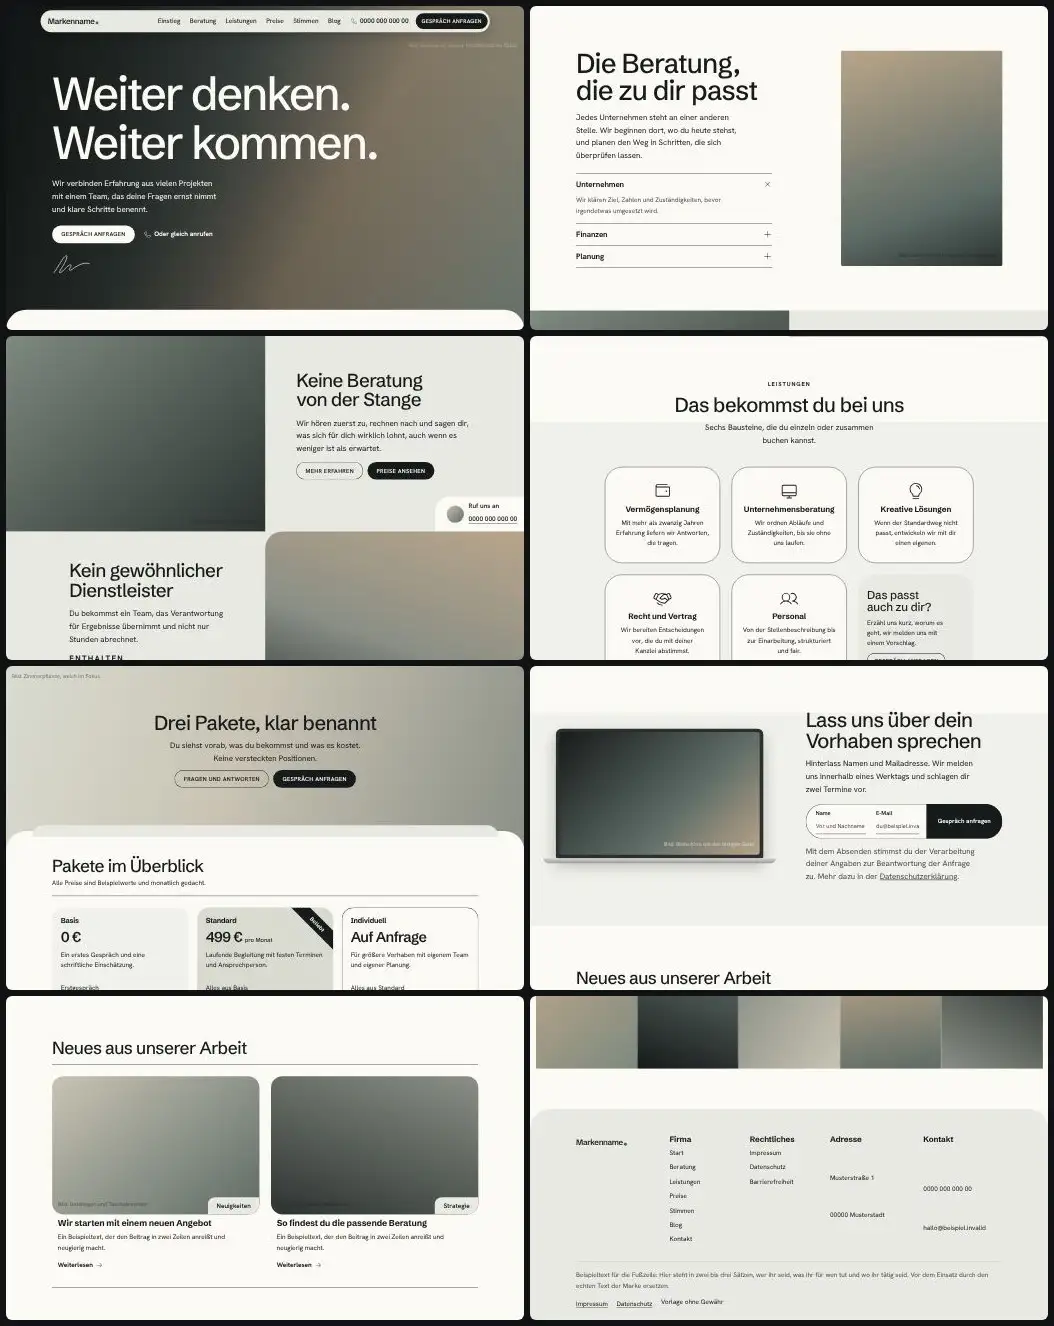
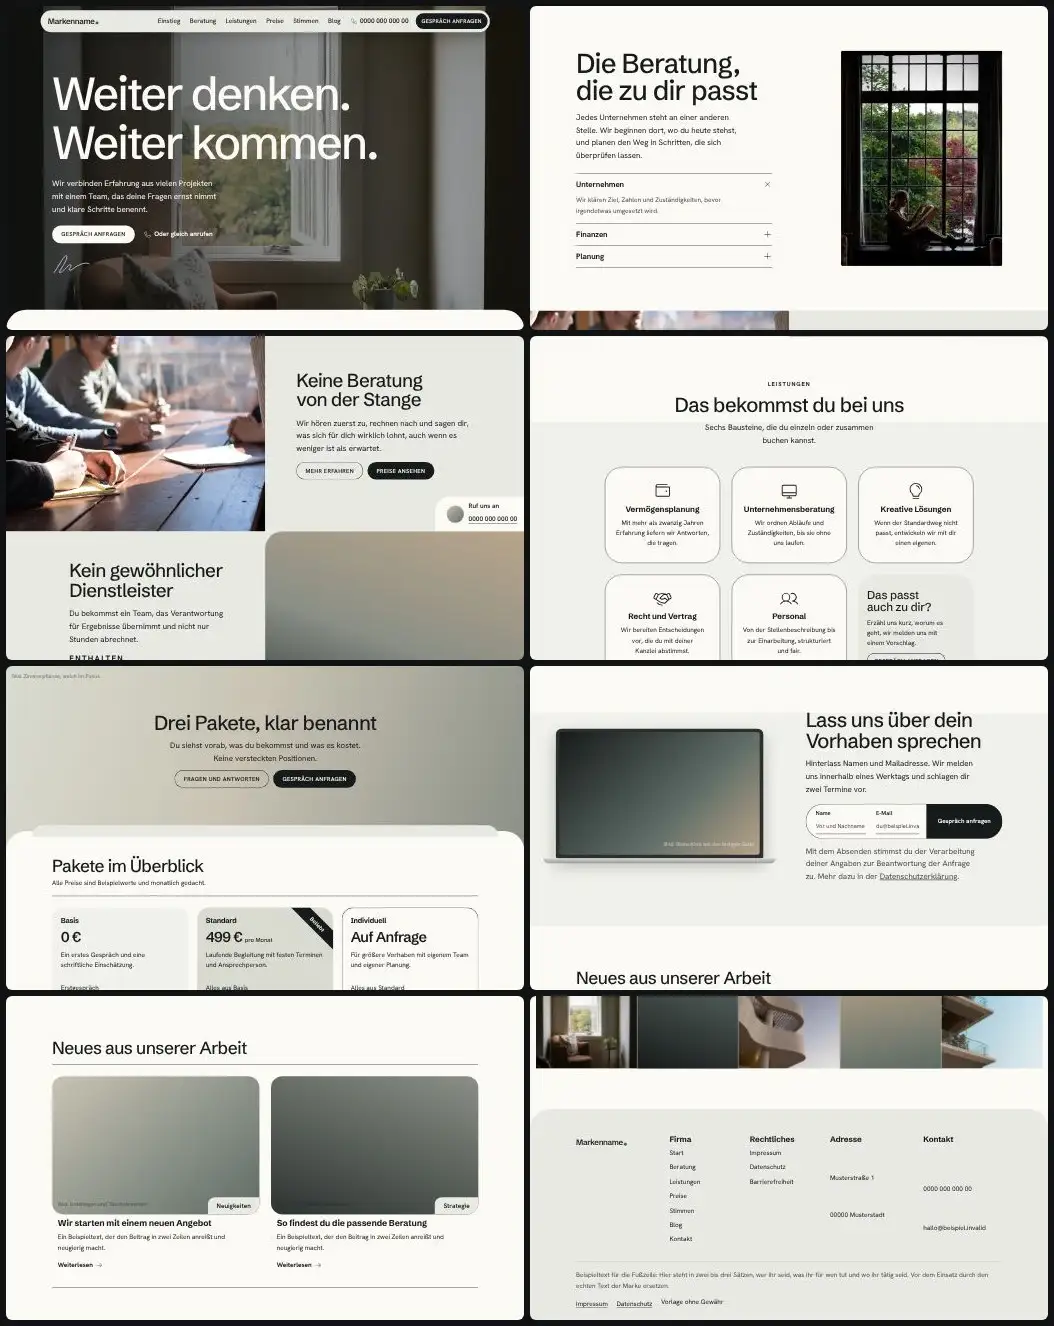
Bibliothek t51: Beispielfotos (Unsplash) eingebaut, Vorschaubilder neu erzeugt
Claude-Session: https://claude.ai/code/session_01DoGuL1bwF3ewggMgZ4Cpvd

diff --git a/skills/webdesign-conversion/assets/vorlagen/bibliothek/t51/index.html b/skills/webdesign-conversion/assets/vorlagen/bibliothek/t51/index.html
@@ -62,7 +62,7 @@
 <main id="inhalt">
   <!-- 1. Held: Vollbild, zwei Zeilen laufen aus einer Maske ein, Unterschrift darunter -->
   <section class="held" id="top" aria-labelledby="h-held" data-abdunkeln>
-    <div class="bild held__bild" data-platzhalter="Bild: Berater im Sessel, Hochformat im Raum" role="img" aria-label="Platzhalter für ein Foto einer beratenden Person in einem hellen Raum"></div>
+    <div class="bild held__bild"><img src="bilder/sessel-fenster-gartenblick.webp" width="1000" height="1500" alt="Sessel in einer Fensternische mit Blick in den Garten" loading="lazy" decoding="async"></div>
     <div class="held__schleier" aria-hidden="true"></div>
     <div class="held__dunkel" aria-hidden="true"></div>
     <div class="wrap held__innen">
@@ -103,13 +103,13 @@
           <details><summary>Planung<svg aria-hidden="true" focusable="false"><use href="#i-plus"/></svg></summary><p>Aus den Ergebnissen entsteht ein Fahrplan mit Terminen, Verantwortlichen und Zwischenzielen.</p></details>
         </div>
       </div>
-      <div class="bild beratung__bild" data-zeig="skala" data-platzhalter="Bild: Berater liest im Sessel, Hochformat" role="img" aria-label="Platzhalter für ein Hochformatfoto einer lesenden Person im Sessel"></div>
+      <div class="bild beratung__bild" data-zeig="skala"><img src="bilder/lesen-am-fenster.webp" width="1000" height="1500" alt="Person liest im Fenster vor grünem Garten" loading="lazy" decoding="async"></div>
     </div>
   </section>
 
   <!-- 4. Teiler eins: Bild links, Salbeifläche rechts mit Rufkarte -->
   <section class="teiler teiler--eins" aria-labelledby="h-teiler1">
-    <div class="bild teiler__bild" data-platzhalter="Bild: Team arbeitet am Tisch" role="img" aria-label="Platzhalter für ein Foto eines Teams am Besprechungstisch"></div>
+    <div class="bild teiler__bild"><img src="bilder/hande-am-holztisch.webp" width="1000" height="667" alt="Hände mit Notizen an einem langen Holztisch" loading="lazy" decoding="async"></div>
     <div class="teiler__text">
       <h2 id="h-teiler1" data-zeig>Keine Beratung von der Stange</h2>
       <p data-zeig>Wir hören zuerst zu, rechnen nach und sagen dir, was sich für dich wirklich lohnt, auch wenn es weniger ist als erwartet.</p>
@@ -166,8 +166,8 @@
       </div>
       <div class="dienste" data-staffel>
         <article class="dienst" data-zeig><div class="bild dienst__bild" data-platzhalter="Bild: Beraterin im Restaurant" role="img" aria-label="Platzhalter für ein Porträtfoto einer Beraterin"></div><div class="dienst__text"><h3>Vermögen und Vorsorge</h3><p>Ein Beispieltext, der kurz sagt, was dich in diesem Feld erwartet.</p><a class="zeigelink" href="#kontakt">Mehr lesen<svg aria-hidden="true" focusable="false"><use href="#i-arrow-right"/></svg></a></div></article>
-        <article class="dienst" data-zeig><div class="bild dienst__bild" data-platzhalter="Bild: Steuerunterlagen mit Taschenrechner" role="img" aria-label="Platzhalter für ein Foto von Unterlagen und Taschenrechner"></div><div class="dienst__text"><h3>Steuern und Buchhaltung</h3><p>Ein Beispieltext, der kurz sagt, was dich in diesem Feld erwartet.</p><a class="zeigelink" href="#kontakt">Mehr lesen<svg aria-hidden="true" focusable="false"><use href="#i-arrow-right"/></svg></a></div></article>
-        <article class="dienst" data-zeig><div class="bild dienst__bild" data-platzhalter="Bild: Planungsrunde am Holztisch" role="img" aria-label="Platzhalter für ein Foto einer Planungsrunde"></div><div class="dienst__text"><h3>Finanzplanung</h3><p>Ein Beispieltext, der kurz sagt, was dich in diesem Feld erwartet.</p><a class="zeigelink" href="#kontakt">Mehr lesen<svg aria-hidden="true" focusable="false"><use href="#i-arrow-right"/></svg></a></div></article>
+        <article class="dienst" data-zeig><div class="bild dienst__bild"><img src="bilder/druckrechner-gelb.webp" width="1000" height="666" alt="Druckender Tischrechner auf hellgelbem Grund" loading="lazy" decoding="async"></div><div class="dienst__text"><h3>Steuern und Buchhaltung</h3><p>Ein Beispieltext, der kurz sagt, was dich in diesem Feld erwartet.</p><a class="zeigelink" href="#kontakt">Mehr lesen<svg aria-hidden="true" focusable="false"><use href="#i-arrow-right"/></svg></a></div></article>
+        <article class="dienst" data-zeig><div class="bild dienst__bild"><img src="bilder/holztisch-skizzen.webp" width="1000" height="750" alt="Holztisch mit Skizzen, Bleistift und Stift" loading="lazy" decoding="async"></div><div class="dienst__text"><h3>Finanzplanung</h3><p>Ein Beispieltext, der kurz sagt, was dich in diesem Feld erwartet.</p><a class="zeigelink" href="#kontakt">Mehr lesen<svg aria-hidden="true" focusable="false"><use href="#i-arrow-right"/></svg></a></div></article>
         <article class="dienst" data-zeig><div class="bild dienst__bild" data-platzhalter="Bild: Kundenservice mit Headset" role="img" aria-label="Platzhalter für ein Foto einer Person im Kundenservice"></div><div class="dienst__text"><h3>Persönlicher Support</h3><p>Ein Beispieltext, der kurz sagt, was dich in diesem Feld erwartet.</p><a class="zeigelink" href="#kontakt">Mehr lesen<svg aria-hidden="true" focusable="false"><use href="#i-arrow-right"/></svg></a></div></article>
       </div>
     </div>
@@ -270,11 +270,11 @@
   <section class="folgen" aria-labelledby="h-folgen">
     <div class="wrap folgen__kopf"><h2 id="h-folgen">Folge uns</h2><a href="#top" data-beispiel>@markenname</a></div>
     <div class="kacheln" data-staffel>
-      <div class="bild kachel" data-zeig data-platzhalter="Bild: Sessel am Fenster" role="img" aria-label="Platzhalter für ein Kachelfoto"></div>
+      <div class="bild kachel" data-zeig><img src="bilder/sessel-fenster-gartenblick.webp" width="1000" height="1500" alt="Sessel in einer Fensternische mit Blick in den Garten" loading="lazy" decoding="async"></div>
       <div class="bild kachel" data-zeig data-platzhalter="Bild: Fassade mit Rohr" role="img" aria-label="Platzhalter für ein Kachelfoto"></div>
-      <div class="bild kachel" data-zeig data-platzhalter="Bild: Gebäudespitze" role="img" aria-label="Platzhalter für ein Kachelfoto"></div>
+      <div class="bild kachel" data-zeig><img src="bilder/gebaeude-rundung-himmel.webp" width="800" height="533" alt="Gerundete Gebäudefassade vor dem Himmel" loading="lazy" decoding="async"></div>
       <div class="bild kachel" data-zeig data-platzhalter="Bild: Objekt auf Terrakotta" role="img" aria-label="Platzhalter für ein Kachelfoto"></div>
-      <div class="bild kachel" data-zeig data-platzhalter="Bild: Balkone in Schwarzweiß" role="img" aria-label="Platzhalter für ein Kachelfoto"></div>
+      <div class="bild kachel" data-zeig><img src="bilder/balkone-beton-himmel.webp" width="800" height="533" alt="Balkone eines Gebäudes aus Beton vor hellem Himmel" loading="lazy" decoding="async"></div>
     </div>
   </section>
 </main>

diff --git a/skills/webdesign-conversion/assets/vorlagen/bibliothek/t51/BILDER.md b/skills/webdesign-conversion/assets/vorlagen/bibliothek/t51/BILDER.md
@@ -1,0 +1,30 @@
+# Bilder t51
+
+Alle Fotos von Unsplash, abgerufen am 25.11.2026. Titel und Lizenz stehen so auf der Seite des Fotos (Titel von Unsplash automatisch vergeben), als Fotograf ist das Unsplash Profil angegeben, weil die Seite den Namen nur als Profillink zeigte. Lizenz ist jeweils die Unsplash Lizenz.
+
+| Datei | Platz | Foto Titel | Fotograf (Profil) | Seite | Lizenz | Abruf |
+|---|---|---|---|---|---|---|
+| sessel-fenster-gartenblick.webp.webp | Hero, Kachel 1 (Sessel am Fenster) | Gemütlicher Sessel am Fenster mit Gartenblick | claybanks | https://unsplash.com/photos/CjmHORCoIfw | Unsplash Lizenz | 25.11.2026 |
+| lesen-am-fenster.webp.webp | Beratung, Berater liest im Sessel | Frau in schwarz-weißem Kleid Lesebuch | harlynkingm | https://unsplash.com/photos/LdGiM8JmIek | Unsplash Lizenz | 25.11.2026 |
+| hande-am-holztisch.webp.webp | Teiler, Team arbeitet am Tisch | Menschen, die tagsüber auf einem Stuhl vor dem Tisch sitzen | mainermedia | https://unsplash.com/photos/KdeqA3aTnBY | Unsplash Lizenz | 25.11.2026 |
+| druckrechner-gelb.webp.webp | Dienst, Steuerunterlagen mit Taschenrechner | Ein grauer Druckrechner auf hellgelbem Hintergrund | stellrweb | https://unsplash.com/photos/djb1whucfBY | Unsplash Lizenz | 25.11.2026 |
+| holztisch-skizzen.webp.webp | Dienst, Planungsrunde am Holztisch | Holztisch mit Skizzen, Bleistift und Stift | anniespratt | https://unsplash.com/photos/PoRcnaa6ark | Unsplash Lizenz | 25.11.2026 |
+| gebaeude-rundung-himmel.webp.webp | Kachel 3 (Gebäudespitze) | Low-Angle-Fotografie eines Stockwerks | michaelseh | https://unsplash.com/photos/S66mTqg0nM8 | Unsplash Lizenz | 25.11.2026 |
+| balkone-beton-himmel.webp.webp | Kachel 5 (Balkone) | Gebäude aus weißem und braunem Beton | trevoriscamera | https://unsplash.com/photos/yz8_w9qtwZY | Unsplash Lizenz | 25.11.2026 |
+
+## Hinweise
+
+* Das Foto beim Lesen zeigt eine Silhouette am Fenster, die Vorlage nennt Berater; nur Atmosphäre.
+* Kachel 5 ist farbig, die Vorlage nennt Schwarzweiß; Foto nicht umgefärbt.
+* Steuerformulare mit lesbarem Text (Tax Withholding, englisch) wurden bewusst nicht verwendet.
+* Hero nutzt dieselbe Datei wie Kachel 1.
+
+## Offen
+
+* Team feiert einen Abschluss
+* Beraterin im Restaurant
+* Kundenservice mit Headset
+* Zimmerpflanze, weich im Fokus
+* Bildschirm mit der fertigen Seite (Oberfläche)
+* Beitrag Unterlagen und Taschenrechner, Beitrag Treppenhalle
+* Kachel Fassade mit Rohr und Objekt auf Terrakotta
